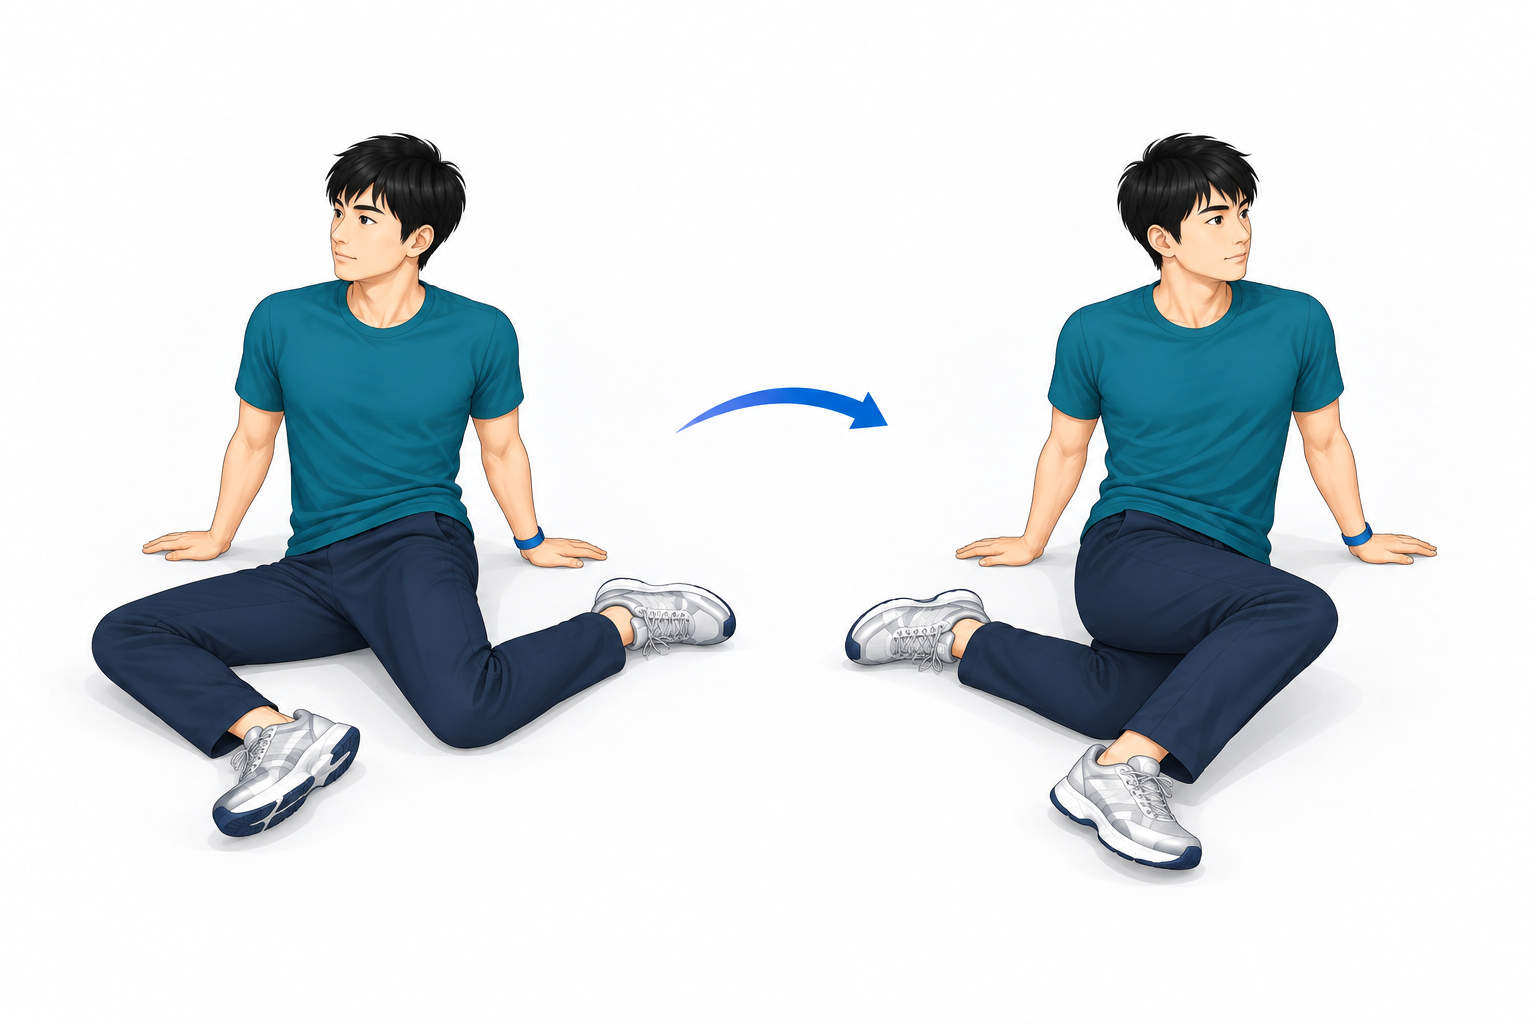
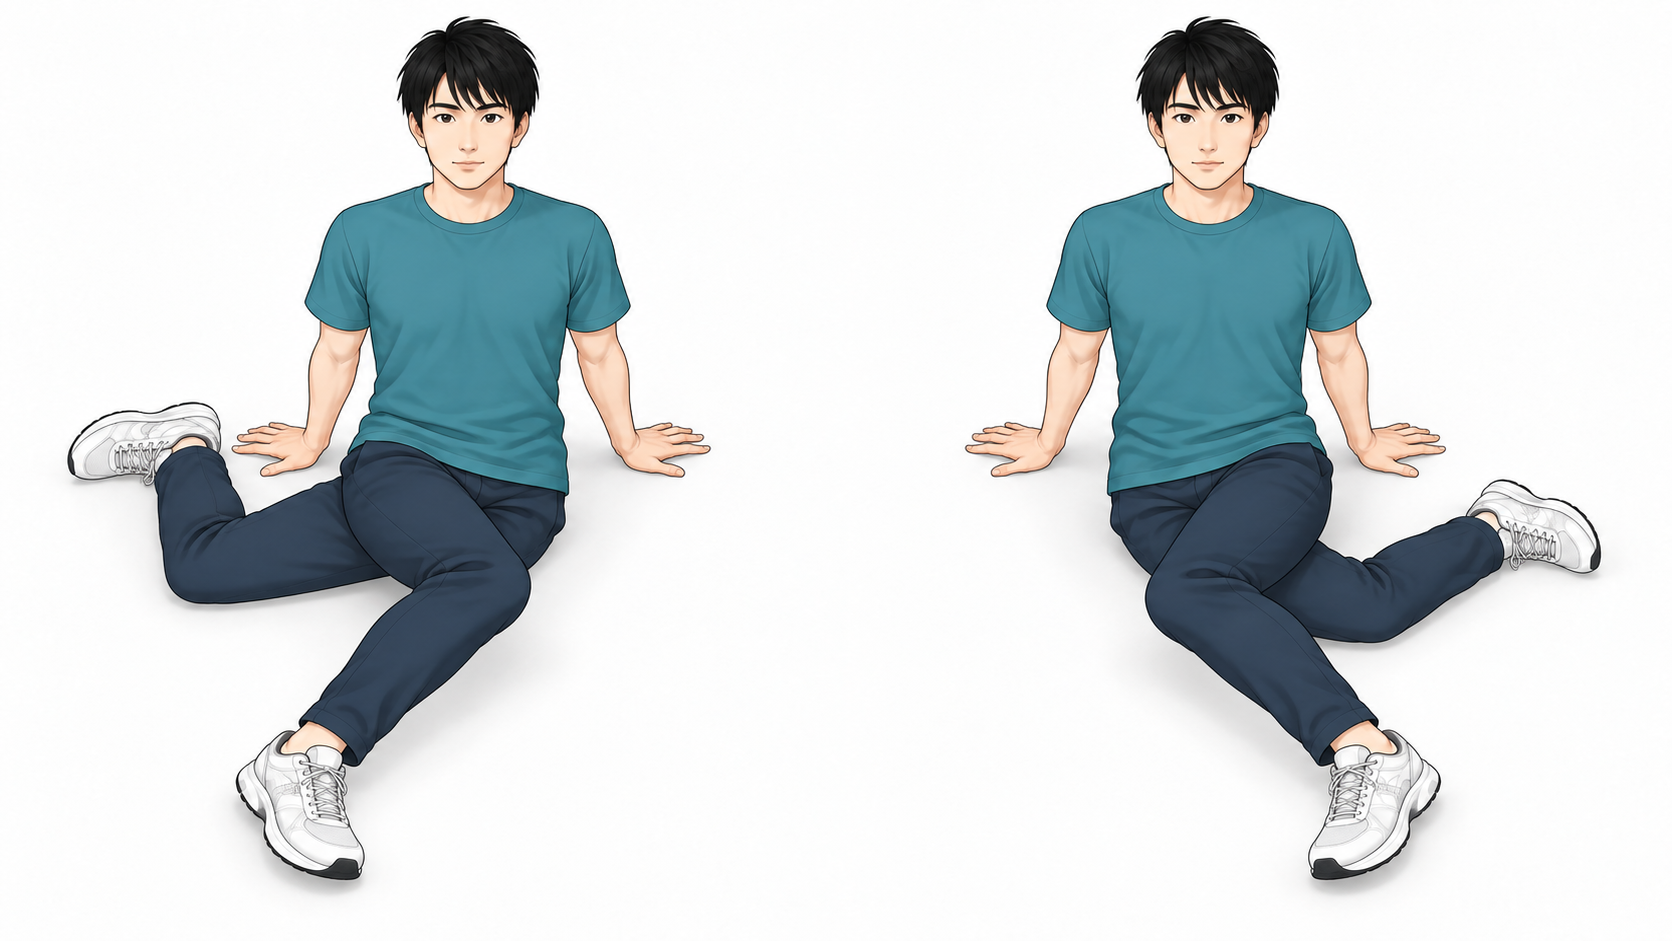
fix: correct P15 and P26 illustrations

diff --git a/clinical-catalog.js b/clinical-catalog.js
@@ -2581,7 +2581,7 @@ const data={
       "id": "P15", "key": "v02_P15", "name": "支持つき90/90切り替え", "purpose": "股関節内外旋の動的可動域",
       "steps": ["両膝を曲げて座り、両手を後ろにつきます。両膝をゆっくり左右へ倒し、楽な範囲で脚の向きを切り替えます。"],
       "doseProposal": "R：左右各4回×1セット", "caution": "膝を床へ押しつけず、90度を強制しません。股関節前面や膝の痛みが出たら中止します。", "equipment": "床、必要なら座面クッション", "gates": "G0",
[2 lines of base64/hex data omitted]
     },
     "P16": {
       "id": "P16", "key": "v02_P16", "name": "支持つき90/90前傾", "purpose": "前脚側の股関節外旋可動域",
@@ -2647,7 +2647,7 @@ const data={
       "id": "P26", "key": "v02_P26", "name": "修正スリーパーストレッチ", "purpose": "肩後方の柔軟性",
       "steps": ["横向きで下側の上腕をタオルで支え、肩と肘を楽な角度にします。反対の手で前腕を内側へ少し倒します。反対側も担当者の指示で行います。"],
       "doseProposal": "S：左右15秒×1回", "caution": "個別指導後に行います。肩前面の挟まり感、不安定感、痛みが出たら中止します。", "equipment": "ベッド、折ったタオル", "gates": "G1",
[2 lines of base64/hex data omitted]
     },
     "P27": {
       "id": "P27", "key": "v02_P27", "name": "足関節サポートテープ", "purpose": "活動時の足関節外部支持",

diff --git a/sw.js b/sw.js
@@ -2,10 +2,10 @@
 importScripts('./exercises.js');
 importScripts('./clinical-catalog.js');
 const PREFIX = 'patient-rehab-' + encodeURIComponent(self.registration.scope) + '-';
-const CACHE = PREFIX + 'v68';
+const CACHE = PREFIX + 'v69';
 const IMAGE_CACHE = PREFIX + 'clinical-images-v2';
 const IMAGE_URLS = new Set(Object.values(ClinicalCatalog.definitions).filter(d=>d.image).map(d=>new URL(d.image,self.registration.scope).href));
-const REFRESHED_IMAGE_URLS = ['./images/P20.png','./images/P23.png','./images/E08.png','./images/N12.png','./images/P08.png','./images/T20.png'].map(path=>new URL(path,self.registration.scope).href);
+const REFRESHED_IMAGE_URLS = ['./images/P20.png','./images/P23.png','./images/E08.png','./images/N12.png','./images/P08.png','./images/T20.png','./images/P15.png','./images/P26.png'].map(path=>new URL(path,self.registration.scope).href);
 const FILES = ['./','./index.html','./manifest.json','./clinical-catalog.js','./clinical-rules.js','./clinical-ui.js','./clinical-review.html','./core.js','./exercises.js','./prescription-defaults.js','./disease-library.js','./exercise-selection.js','./ui.js','./app-v2.js','./bug-report.js','./exercise-print.js','./exercise-video.js','./patient-video.js','./clinical-evidence.js','./exercise-evidence.js','./app-v2.css',
   './icon-180.png','./icon-192.png','./icon-512.png',
   './vendor/lz-string.min.js','./vendor/qrcode.min.js','./vendor/html5-qrcode.min.js',

diff --git a/bug-report.js b/bug-report.js
@@ -10,7 +10,7 @@ function bugReportEnvironment(nav){
   return `端末：${device}\nOS：${os}\nブラウザ：${browser}`;
 }
 function buildBugReport(intent,actual,nav,date){
-  return `【不具合報告】\nやろうとしたこと：\n${intent}\n\n実際に起きたこと：\n${actual}\n\nアプリ版：v68\n日時：${date.toISOString()}（UTC）\n${bugReportEnvironment(nav)}`;
+  return `【不具合報告】\nやろうとしたこと：\n${intent}\n\n実際に起きたこと：\n${actual}\n\nアプリ版：v69\n日時：${date.toISOString()}（UTC）\n${bugReportEnvironment(nav)}`;
 }
 function openBugReport(){
   modal('bugReportModal','不具合を報告',`
@@ -20,7 +20,7 @@ function openBugReport(){
     <textarea id="bug-intent" class="fld-inp" rows="3"></textarea>
     <label class="fld-lbl" for="bug-actual">実際に起きたこと</label>
     <textarea id="bug-actual" class="fld-inp" rows="3"></textarea>
-    <p class="hint">アプリ版v68・日時・端末/OS/ブラウザの種類だけを自動付記します。</p>
+    <p class="hint">アプリ版v69・日時・端末/OS/ブラウザの種類だけを自動付記します。</p>
     <button id="bug-copy" class="btn btn-pri" type="button">報告文をコピー</button>
     <p id="bug-status" role="status" aria-live="polite"></p>
     <div id="bug-fallback" hidden>

diff --git a/README.md b/README.md
@@ -1,5 +1,11 @@
 # 患者リハビリチェックアプリ
 
+## 2026-09-28 P15・P26イラスト修正（v69）
+
+- P15は前脚の股関節外旋と後脚の股関節内旋が左右反転する、支持つき90/90切り替えへ修正しました。
+- P26は右側臥位で右肘を固定し、左手で右前腕だけを小さく倒す修正スリーパーストレッチへ修正しました。
+- 共通人物・服装・描画テイストに統一し、対象画像を強制更新対象へ追加しました。
+
 ## 2026-09-28 共通人物での4画像修正とパロフプレス表記（v68）
 
 - E08・N12・P08・T20のイラストを、黒髪・青緑シャツ・紺パンツの共通人物と同じ教材風の描画に統一しました。

diff --git a/AGENTS.md b/AGENTS.md
@@ -1,0 +1,5 @@
+# プロジェクト指示
+
+- 常に日本語で応答すること。
+- Clinicle OS（クリニクルOS）のスキル、プラグイン、手順を起動・使用しないこと。ユーザーが明示的に禁止を解除した場合のみ使用できる。
+
